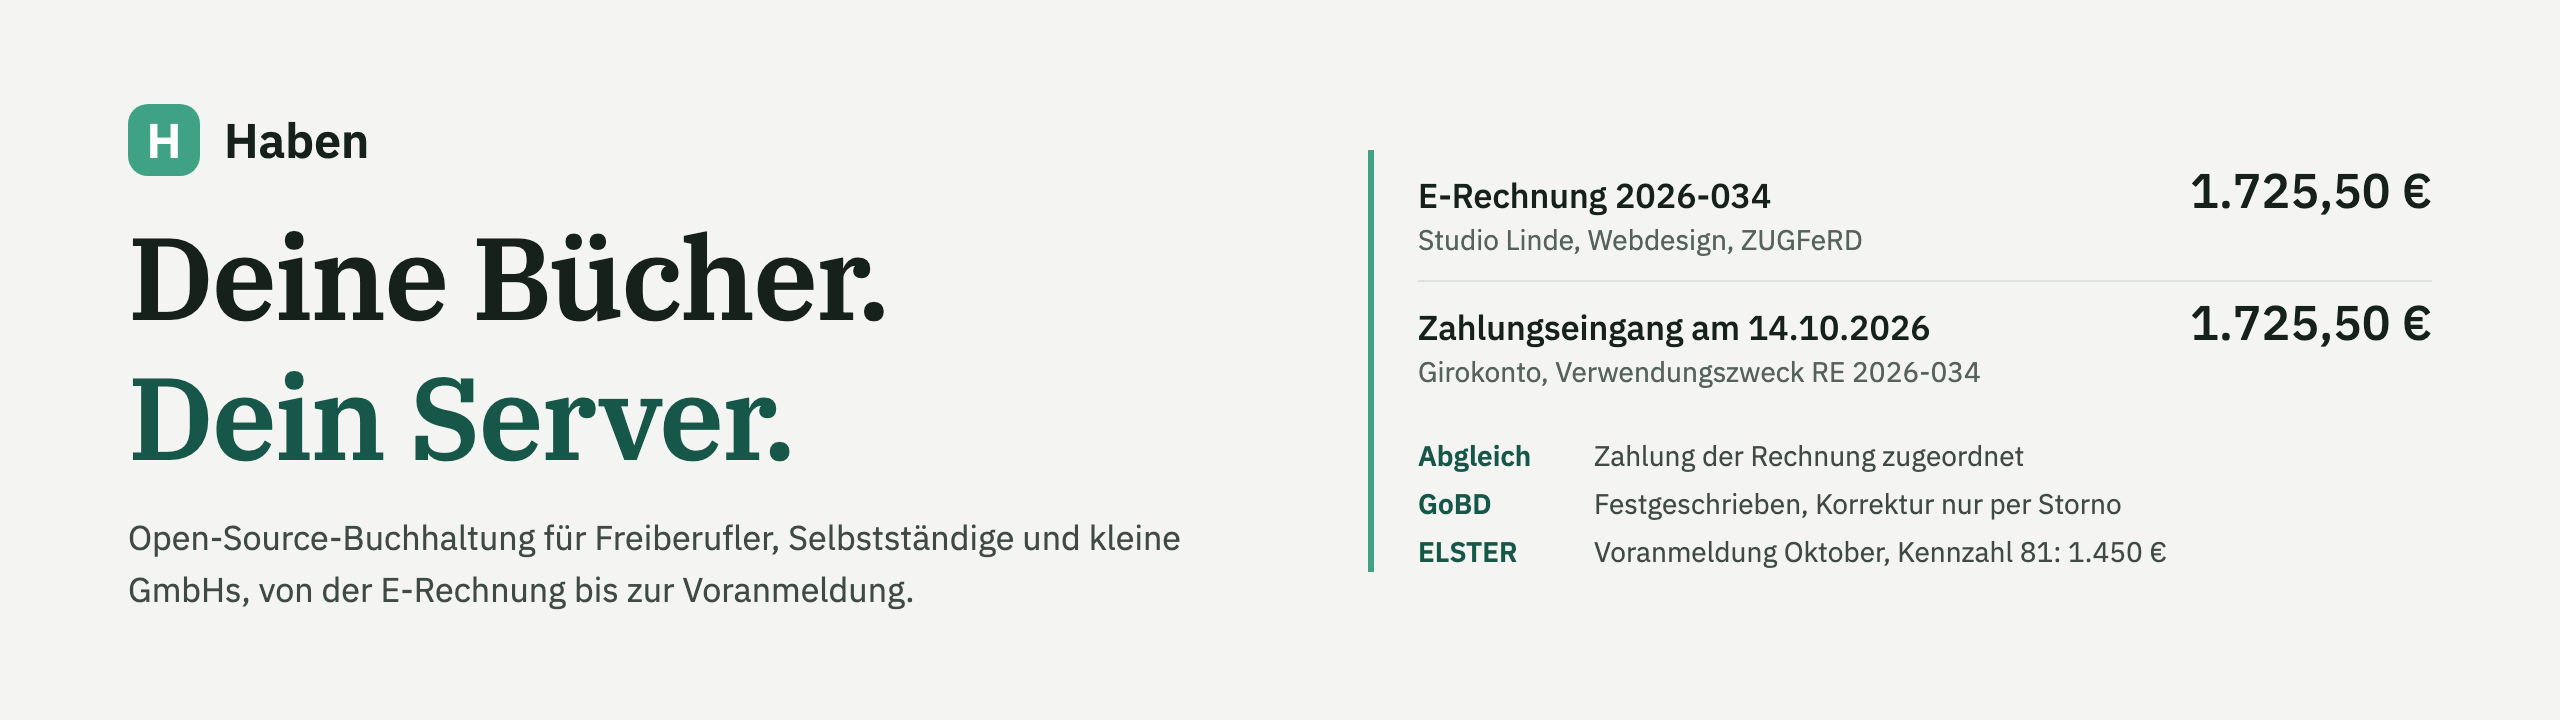
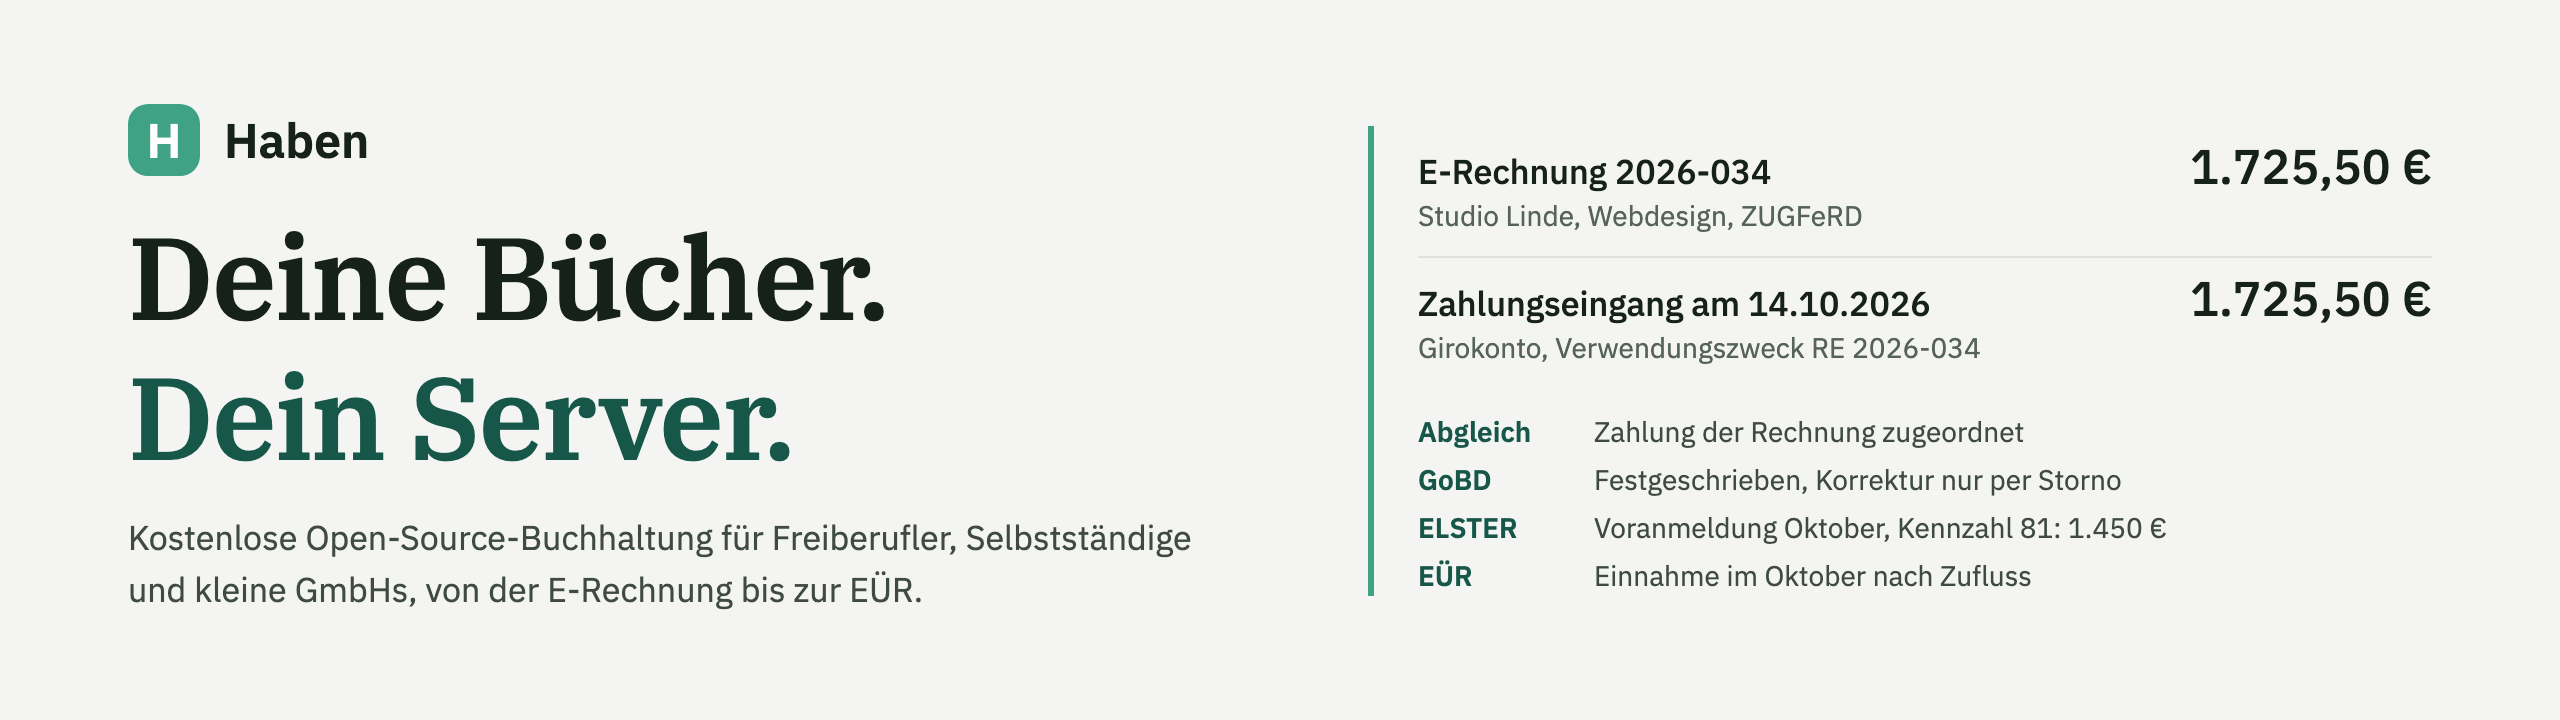
README: Hero nennt „kostenlos“ und die EÜR, Vorschaubild wieder mit App und Handy
Die Unterzeile des Hero beginnt mit „Kostenlose Open-Source-Buchhaltung“ und reicht bis zur EÜR, rechts kommt die EÜR als vierte Angabe dazu. Das Vorschaubild hat wieder Navigation, Übersicht und Handy; links stehen der Slogan in IBM Plex Serif und statt der Badges eine Liste wie im Hero.

diff --git a/scripts/social-preview/social-preview.html b/scripts/social-preview/social-preview.html
@@ -1,7 +1,7 @@
 <!doctype html>
 <!-- Vorlage für das Social-Media-Bild des Repos (Settings → Social preview), 1280 × 640.
-     Wie das Bild oben in der README (scripts/hero/hero.html), größer gesetzt: links der Slogan in IBM Plex Serif,
-     rechts Rechnung und Zahlung mit Abgleich, GoBD und ELSTER. Ein Bild für alle Umgebungen, deshalb hell (Wald).
+     Links die Navigation der App mit Slogan und Angaben wie im Bild oben in der README (scripts/hero/hero.html), rechts die Übersicht und das Handy.
+     Ein Bild für alle Umgebungen, deshalb hell (Wald); die dunkle Navigation trägt es auch auf dunklem Grund.
      Rendern: bun run docs:social-preview → docs/social-preview.png -->
 <html lang="de">
 <head>
@@ -10,48 +10,56 @@
   @font-face { font-family: "IBM Plex Sans"; font-weight: 400; src: url("../../apps/web/node_modules/@fontsource/ibm-plex-sans/files/ibm-plex-sans-latin-400-normal.woff2") format("woff2"); }
   @font-face { font-family: "IBM Plex Sans"; font-weight: 500; src: url("../../apps/web/node_modules/@fontsource/ibm-plex-sans/files/ibm-plex-sans-latin-500-normal.woff2") format("woff2"); }
   @font-face { font-family: "IBM Plex Sans"; font-weight: 600; src: url("../../apps/web/node_modules/@fontsource/ibm-plex-sans/files/ibm-plex-sans-latin-600-normal.woff2") format("woff2"); }
+
   @font-face { font-family: "IBM Plex Serif"; font-weight: 600; src: url("../../packages/einvoice/fonts/IBMPlexSerif-SemiBold.ttf") format("truetype"); }
 
   /* Wald, wie :root in apps/web/src/styles.css */
-  :root { --ink: #16211c; --ink-2: #3f4a44; --muted: #56625c; --ground: #f4f5f2; --line: #dde2de; --brand: #3fa284; --accent-ink: #17574a;
-    --sans: "IBM Plex Sans", system-ui, sans-serif; --serif: "IBM Plex Serif", Georgia, serif; }
+  :root { --ink: #16211c; --ground: #f4f5f2; --line: #dde2de; --brand: #3fa284; --nav: #16211c; --nav-active: #2a3b34; --nav-ink: #b9c4be; }
 
   * { margin: 0; padding: 0; box-sizing: border-box; }
   html, body { width: 1280px; height: 640px; overflow: hidden; }
-  body { background: var(--ground); color: var(--ink); font-family: var(--sans); padding: 64px 72px; display: flex; flex-direction: column; }
-  .brand { display: flex; align-items: center; gap: 16px; font-size: 34px; font-weight: 600; }
-  .logo { width: 52px; height: 52px; border-radius: 14px; background: var(--brand); color: #fff; display: grid; place-items: center; font-size: 34px; }
-  .inhalt { flex: 1; display: grid; grid-template-columns: 1fr 520px; gap: 64px; align-items: center; }
-  h1 { font: 600 80px/94px var(--serif); letter-spacing: -1.4px; }
-  h1 span { display: block; color: var(--accent-ink); }
-  .beschreibung { margin-top: 20px; font-size: 24px; line-height: 34px; color: var(--ink-2); }
-  .auszug { padding-left: 26px; border-left: 4px solid var(--brand); }
-  .zeile { display: flex; justify-content: space-between; align-items: baseline; gap: 20px; padding: 10px 0 14px; }
-  .zeile + .zeile { border-top: 1px solid var(--line); }
-  .was { font-size: 22px; font-weight: 500; line-height: 30px; }
-  .wer { font-size: 18px; line-height: 26px; color: var(--muted); }
-  .betrag { font-size: 28px; font-weight: 500; font-variant-numeric: tabular-nums; white-space: nowrap; }
-  dl { display: grid; grid-template-columns: 96px 1fr; gap: 6px 14px; margin-top: 16px; font-size: 18px; line-height: 26px; }
-  dt { font-weight: 600; color: var(--accent-ink); }
-  dd { color: var(--ink-2); }
+  body { position: relative; display: flex; font-family: "IBM Plex Sans", system-ui, sans-serif; background: var(--ground); color: var(--ink); }
+
+  .side { width: 440px; flex: none; background: var(--nav); color: var(--nav-ink); padding: 56px 48px; display: flex; flex-direction: column; position: relative; z-index: 1; }
+  .brand { display: flex; align-items: center; gap: 20px; }
+  .logo { width: 72px; height: 72px; border-radius: 16px; background: var(--brand); color: #fff; display: grid; place-items: center; font-size: 40px; font-weight: 600; }
+  .name { font-size: 56px; font-weight: 600; color: #fff; letter-spacing: -0.8px; }
+  .claim { margin-top: 40px; font: 600 46px/56px "IBM Plex Serif", Georgia, serif; color: #fff; letter-spacing: -0.6px; }
+  /* Zweite Zeile in der Markenfarbe, wie im Hero der README */
+  .claim span { color: var(--brand); }
+  .sub { margin-top: 16px; font-size: 20px; line-height: 28px; }
+  /* Was Haben kann, als Liste wie im Hero der README statt Badges */
+  dl { margin-top: auto; display: grid; grid-template-columns: 104px 1fr; gap: 6px 12px; font-size: 17px; line-height: 24px; }
+  dt { font-weight: 600; color: var(--brand); }
+  dd { margin: 0; color: var(--nav-ink); }
+
+  /* Die Übersicht ohne ihre Navigation läuft rechts und unten aus dem Bild, das Handy liegt darüber */
+  .shot { position: absolute; left: 488px; top: 56px; width: 960px; border: 1px solid var(--line); border-radius: 12px 0 0 0; overflow: hidden; }
+  /* Ohne die Navigation der App: die steht links schon */
+  .shot img { width: 1080px; margin-left: -174px; display: block; }
+  /* Handy rechts, unten angeschnitten wie aus dem Bild ragend: Rahmen 3 % und Ecken 17 % der Breite wie ein
+     aktuelles Handy, Kante, Seitentasten,
+     Statusleiste in der Farbe der Kopfzeile der App am Handy und Kamera als Pille. Das Bild selbst hat keine Statusleiste */
+  .phone { position: absolute; right: 40px; top: 176px; width: 244px; height: 504px; padding: 7px 7px 0; background: #0b100e; border-radius: 41px 41px 0 0; box-shadow: 0 0 0 1.5px #3a4741, 0 16px 40px rgba(22, 33, 28, 0.25); }
+  .phone::before, .phone::after { content: ""; position: absolute; width: 3px; border-radius: 2px; background: #3a4741; }
+  .phone::before { left: -4px; top: 96px; height: 48px; box-shadow: 0 -64px 0 0 #3a4741; }
+  .phone::after { right: -4px; top: 120px; height: 72px; }
+  .phone .screen { position: relative; height: 100%; border-radius: 34px 34px 0 0; overflow: hidden; padding-top: 30px; background: var(--nav); }
+  .phone .screen img { width: 100%; display: block; }
+  .phone .time { position: absolute; top: 8px; left: 26px; font-size: 13px; font-weight: 600; color: #fff; }
+  .phone .bars { position: absolute; top: 11px; right: 22px; display: flex; gap: 2px; align-items: flex-end; }
+  .phone .bars i { display: block; width: 3px; border-radius: 1px; background: #fff; }
+  .phone .island { position: absolute; top: 7px; left: 50%; width: 72px; height: 20px; margin-left: -36px; border-radius: 10px; background: #000; }
 </style>
 </head>
 <body>
-  <div class="brand"><span class="logo">H</span>Haben</div>
-  <div class="inhalt">
-    <section>
-      <h1>Deine Bücher.<span>Dein Server.</span></h1>
-      <p class="beschreibung">Open-Source-Buchhaltung für Freiberufler, Selbstständige und kleine GmbHs.</p>
-    </section>
-    <section class="auszug">
-      <div class="zeile"><div><div class="was">E-Rechnung 2026-034</div><div class="wer">Studio Linde, ZUGFeRD</div></div><div class="betrag">1.725,50 €</div></div>
-      <div class="zeile"><div><div class="was">Zahlungseingang</div><div class="wer">Girokonto, RE 2026-034</div></div><div class="betrag">1.725,50 €</div></div>
-      <dl>
-        <dt>Abgleich</dt><dd>Zahlung zugeordnet</dd>
-        <dt>GoBD</dt><dd>Festgeschrieben</dd>
-        <dt>ELSTER</dt><dd>Voranmeldung Oktober</dd>
-      </dl>
-    </section>
-  </div>
+  <aside class="side">
+    <div class="brand"><div class="logo">H</div><div class="name">Haben</div></div>
+    <p class="claim">Deine Bücher.<br><span>Dein Server.</span></p>
+    <p class="sub">Kostenlose Open-Source-Buchhaltung für Freiberufler, Selbstständige und kleine GmbHs.</p>
+    <dl><dt>E-Rechnung</dt><dd>ZUGFeRD und XRechnung</dd><dt>Bank</dt><dd>Zahlungen zuordnen</dd><dt>GoBD</dt><dd>Festgeschrieben</dd><dt>ELSTER</dt><dd>Voranmeldung direkt</dd><dt>EÜR</dt><dd>oder Bilanz</dd></dl>
+  </aside>
+  <div class="shot"><img src="../../docs/screenshot-uebersicht.png" alt=""></div>
+  <div class="phone"><div class="screen"><img src="../../docs/screenshot-mobil.png" alt=""><div class="island"></div><div class="time">9:41</div><div class="bars"><i style="height:4px"></i><i style="height:6px"></i><i style="height:8px"></i><i style="height:10px"></i></div></div></div>
 </body>
 </html>

diff --git a/scripts/hero/hero.html b/scripts/hero/hero.html
@@ -72,7 +72,7 @@
     <section>
       <div class="brand"><span class="brand-mark">H</span>Haben</div>
       <h1>Deine Bücher.<span>Dein Server.</span></h1>
-      <p class="beschreibung">Open-Source-Buchhaltung für Freiberufler, Selbstständige und kleine GmbHs, von der E-Rechnung bis zur Voranmeldung.</p>
+      <p class="beschreibung">Kostenlose Open-Source-Buchhaltung für Freiberufler, Selbstständige und kleine GmbHs, von der E-Rechnung bis zur EÜR.</p>
     </section>
     <section class="auszug">
       <div class="zeile"><div><div class="was">E-Rechnung 2026-034</div><div class="wer">Studio Linde, Webdesign, ZUGFeRD</div></div><div class="betrag">1.725,50 €</div></div>
@@ -81,6 +81,7 @@
         <dt>Abgleich</dt><dd>Zahlung der Rechnung zugeordnet</dd>
         <dt>GoBD</dt><dd>Festgeschrieben, Korrektur nur per Storno</dd>
         <dt>ELSTER</dt><dd>Voranmeldung Oktober, Kennzahl 81: 1.450 €</dd>
+        <dt>EÜR</dt><dd>Einnahme im Oktober nach Zufluss</dd>
       </dl>
     </section>
   </main>
